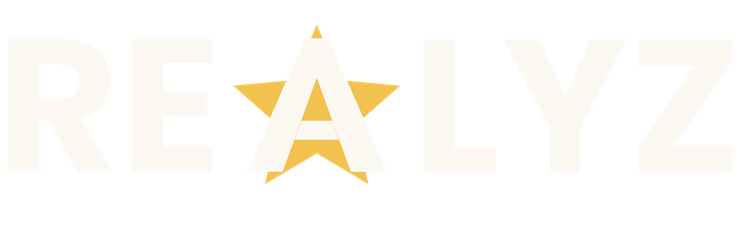
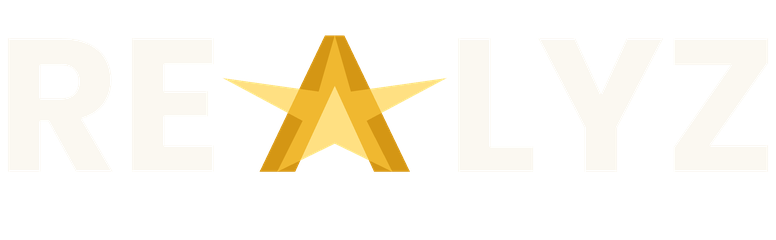
Marca Realyz: A de braços abertos com a estrela saindo de dentro
Também: cabeçalho da página de abertura rola junto e a flor da Lotus
não aparece duas vezes no computador.

Claude-Session: https://claude.ai/code/session_01XJ8bKMNESezMEnN3MgmYe2

Changed region(s): [[0.2797, 0.1167, 0.5905, 0.7583]]

diff --git a/src/web/Landing.web.js b/src/web/Landing.web.js
@@ -62,7 +62,7 @@ const AREAS = [
 
 const CSS = `
 @import url('https://fonts.googleapis.com/css2?family=Unbounded:wght@500;700;800&family=Manrope:wght@400;500;700&display=swap');
-.rz{--ouro:#E0A81A;--ouro-claro:#F2C14E;--marfim:#FBF8F1;--tinta:#14120E;--cinza:#5B564B;
+.rz{position:relative;--ouro:#E0A81A;--ouro-claro:#F2C14E;--marfim:#FBF8F1;--tinta:#14120E;--cinza:#5B564B;
   font-family:Manrope,system-ui,sans-serif;color:var(--tinta);background:var(--marfim);height:100%;overflow-y:auto;overflow-x:hidden;-webkit-font-smoothing:antialiased}
 .rz *{box-sizing:border-box}
 .rz a{color:inherit}

diff --git a/App.js b/App.js
@@ -685,7 +685,7 @@ function Shell({ inviteTick }) {
       <PipManager />
       <LiveFloat bottom={150 + insets.bottom} />
       <TouchableOpacity
-        style={[styles.fab, { bottom: 84 + insets.bottom }, videoFull && { display: 'none' }]}
+        style={[styles.fab, { bottom: 84 + insets.bottom }, (videoFull || desk) && { display: 'none' }]}
         onPress={() => setVoice(true)}
         activeOpacity={0.85}
         accessibilityLabel="Falar com a Lotus"

diff --git a/tools/wordmark.py b/tools/wordmark.py
@@ -10,22 +10,29 @@ def starpoly(cx,cy,R,r,rot=-90):
         pts.append((cx+rr*math.cos(a), cy+rr*math.sin(a)))
     return pts
 def letterA(color, starc, bg_is_dark):
+    # A e estrela mesclados: as pernas do A são as pontas de baixo da estrela.
+    # A em ouro escuro, estrela em ouro claro e, onde os dois se cruzam, a mistura das duas cores.
     d0=ImageDraw.Draw(Image.new('RGBA',(5,5)))
     b=d0.textbbox((0,0),'A',font=font)
-    w=b[2]-b[0]; h=d0.textbbox((0,0),'E',font=font); h=h[3]-h[1]
-    pad=int(60*S)
-    im=Image.new('RGBA',(w+2*pad,H),(0,0,0,0))
+    w=(b[2]-b[0])*1.14; h=d0.textbbox((0,0),'E',font=font); h=h[3]-h[1]
+    pad=int(44*S)
+    size=(int(w)+2*pad,H)
     X=lambda u: pad+u*w; Y=lambda v: TOP+v*h
-    # estrela no fundo, maior que o A
-    R=h*0.66
-    ImageDraw.Draw(im).polygon(starpoly(X(0.5), Y(0.56), R, R*0.46), fill=starc)
-    # A na frente, unido a ela
-    m=Image.new('L',im.size,0); md=ImageDraw.Draw(m)
-    md.polygon([(X(0.415),Y(0)),(X(0.585),Y(0)),(X(1),Y(1)),(X(0),Y(1))],fill=255)
-    md.polygon([(X(0.5),Y(0.30)),(X(0.745),Y(1.01)),(X(0.255),Y(1.01))],fill=0)
-    md.rectangle([X(0.2),Y(0.62),X(0.8),Y(0.76)],fill=255)
-    md.polygon([(X(0.5),Y(0.30)),(X(0.745),Y(1.01)),(X(0.255),Y(1.01))],outline=None)
-    im.paste(Image.new('RGBA',im.size,color),(0,0),m)
+    A=Image.new('L',size,0); d=ImageDraw.Draw(A)
+    d.polygon([(X(0.44),Y(-0.02)),(X(0.56),Y(-0.02)),(X(0.97),Y(1)),(X(0.03),Y(1))],fill=255)
+    d.polygon([(X(0.5),Y(0.36)),(X(0.75),Y(1.01)),(X(0.25),Y(1.01))],fill=0)
+    E=Image.new('L',size,0)
+    # estrela saindo de dentro do A: a ponta de cima é o topo do A e as pontas de baixo correm pelas pernas
+    P=[(0.5,-0.02),(0.60,0.40),(1.20,0.30),(0.70,0.62),(0.86,1.0),(0.5,0.79),(0.14,1.0),(0.30,0.62),(-0.20,0.30),(0.40,0.40)]
+    ImageDraw.Draw(E).polygon([(X(u),Y(v)) for u,v in P],fill=255)
+    from PIL import ImageChops
+    both=ImageChops.multiply(A,E)
+    onlyA=ImageChops.subtract(A,both); onlyE=ImageChops.subtract(E,both)
+    im=Image.new('RGBA',size,(0,0,0,0))
+    cA,cE,cM = starc
+    im.paste(Image.new('RGBA',size,cA),(0,0),onlyA)
+    im.paste(Image.new('RGBA',size,cE),(0,0),onlyE)
+    im.paste(Image.new('RGBA',size,cM),(0,0),both)
     return im
 def make(color, starc, path):
     d0=ImageDraw.Draw(Image.new('RGBA',(5,5)))
@@ -39,10 +46,10 @@ def make(color, starc, path):
     W=sum(p.width for p in parts)+gap*4
     out=Image.new('RGBA',(W,H),(0,0,0,0)); x=gap
     for i,p in enumerate(parts):
-        if i==1: x-=int(42*S)
+        if i==1: x-=int(18*S)
         out.alpha_composite(p,(x,0)); x+=p.width+gap
-        if i==1: x-=int(42*S)
+        if i==1: x-=int(18*S)
     bb=out.getbbox(); out=out.crop((bb[0]-8*S,0,bb[2]+8*S,H))
     out=out.resize((out.width//S,H//S),Image.LANCZOS); out.save(path); print(path,out.size)
-make((20,18,14,255),(224,168,26,255),'/tmp/wm/wordmark-dark.png')
-make((251,248,241,255),(242,193,78,255),'/tmp/wm/wordmark-light.png')
+make((20,18,14,255),((168,112,6,255),(245,196,70,255),(214,152,20,255)),'/tmp/wm/wordmark-dark.png')
+make((251,248,241,255),((212,150,20,255),(255,224,130,255),(240,184,48,255)),'/tmp/wm/wordmark-light.png')
